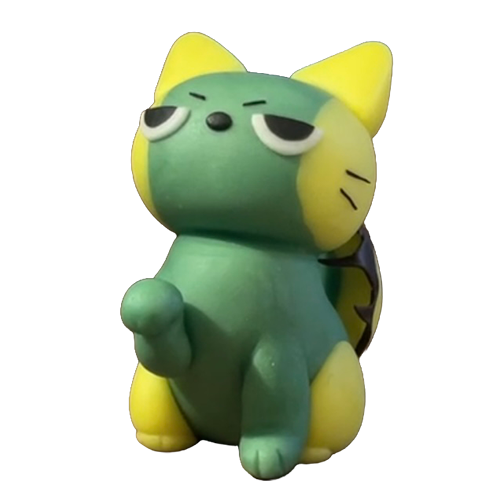
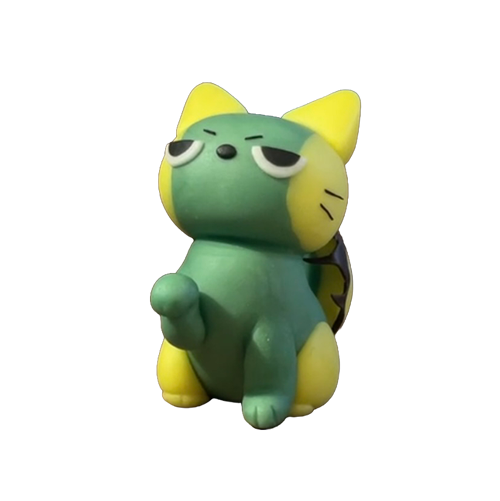
１１まで追加

Changed region(s): [[0.24, 0.0601, 0.81, 0.9619]]

diff --git a/index.html b/index.html
@@ -14,7 +14,7 @@
   <body>
     <header>
       <div class="header-left">
-        <span class="sys-badge">SYS_V1.0</span>
+        <span class="sys-badge">SYS_V1.1</span>
         <span class="logo">鋸歯生物図鑑</span>
       </div>
       <div class="header-right">
@@ -22,7 +22,7 @@
         <a href="#world" class="nav-a">WORLD</a>
         <a href="#maker" class="nav-a">MAKER</a>
         <span class="entry-count"
-          >ENTRIES: <span style="color: var(--ink)">008</span></span
+          >ENTRIES: <span style="color: var(--ink)">011</span></span
         >
       </div>
     </header>
@@ -36,7 +36,7 @@
         <div class="hero-stats">
           <div class="stat-c">
             <div class="stat-lbl">ENTRIES-個体</div>
-            <div class="stat-v">008<span class="stat-u">体</span></div>
+            <div class="stat-v">011<span class="stat-u">体</span></div>
           </div>
           <div class="stat-c">
             <div class="stat-lbl">HABITAT-生息</div>
@@ -491,11 +491,11 @@
             </div>
           </div>
         </div>
-        <!-- Card 8 -->
+        <!-- Card 8 白鯨-->
         <div class="ecard reveal">
           <div class="ct">
             <span class="cno">No.008</span>
-            <span class="rarity rar-uc">COMMON</span>
+            <span class="rarity rar-c">COMMON</span>
           </div>
 
           <div class="cillus">
@@ -535,6 +535,138 @@
               <div class="dc">
                 <div class="dk">STATUS</div>
                 <div class="dv" style="color: #e0b94f">● MYTHIC</div>
+              </div>
+            </div>
+          </div>
+        </div>
+        <!-- Card 9 -->
+        <div class="ecard reveal" style="transition-delay: 0.1s">
+          <div class="ct">
+            <span class="cno">No.009</span
+            ><span class="rarity rar-uc">UNCOMMON</span>
+          </div>
+          <div class="cillus">
+            <img src="images/no_009.png" alt="レッドにゃんこウィーズル" />
+          </div>
+          <div class="cbody">
+            <div class="ctag">BEAST-DOMINANT</div>
+            <div class="cnm-jp">レッドにゃんこウィーズル</div>
+            <div class="cnm-en">Red Nyanko Wizle</div>
+
+            <p class="cdesc">
+              鋸歯生態系に適応したネコ型生物。
+              全身は普段は淡い赤色を呈するが、強い環境ストレス（乾燥・捕食圧・光過多）に反応すると、体表の細胞が急激に発色し、鮮烈な赤色へと変化する。
+              鋸歯生物群落の近辺では、プレステラの突起構造に擬態した休眠姿勢を取ることが確認されている。
+              観察者の間では、「環境状態を視覚化する生物」として非常に高い研究価値を持つとされる。
+            </p>
+
+            <div class="cdata">
+              <div class="dc">
+                <div class="dk">HABITAT</div>
+                <div class="dv">スポットライト直下</div>
+              </div>
+
+              <div class="dc">
+                <div class="dk">SIZE</div>
+                <div class="dv">144mm</div>
+              </div>
+
+              <div class="dc">
+                <div class="dk">MOBILITY</div>
+                <div class="dv">夜間活性</div>
+              </div>
+
+              <div class="dc">
+                <div class="dk">STATUS</div>
+                <div class="dv" style="color: var(--g)">● ACTIVE</div>
+              </div>
+            </div>
+          </div>
+        </div>
+        <!-- Card 10 にゃがべチタノタ-->
+        <div class="ecard reveal" style="transition-delay: 0.1s">
+          <div class="ct">
+            <span class="cno">No.010</span
+            ><span class="rarity rar-c">COMMON</span>
+          </div>
+          <div class="cillus">
+            <img src="images/no_010.png" alt="にゃガベチタノタ" />
+          </div>
+          <div class="cbody">
+            <div class="ctag">BEAST-DOMINANT</div>
+            <div class="cnm-jp">にゃガベ チタノタ</div>
+            <div class="cnm-en">NyAgabe titanota</div>
+
+            <p class="cdesc">
+              鋸歯生物群の中でも、最も広域に分布する基本形態個体群。
+              本種は特定の環境に強く適応する“極地特化型”とは異なり、環境変化への耐性と再現性の高さに特化している。そのため、森林・乾燥地・人工環境のいずれにおいても安定して生存が確認されている。</br>
+              個体ごとの差異が小さいことから、群れ内では“基準個体（ベースライン）”として扱われることが多く、他の鋸歯生物の成長比較対象として頻繁に観測される。</br>
+              研究者の間では「進化の停滞ではなく、完成された汎用形態」とする説もあり、その評価は二分されている。
+            </p>
+
+            <div class="cdata">
+              <div class="dc">
+                <div class="dk">HABITAT</div>
+                <div class="dv">森林</div>
+              </div>
+
+              <div class="dc">
+                <div class="dk">SIZE</div>
+                <div class="dv">172mm</div>
+              </div>
+
+              <div class="dc">
+                <div class="dk">MOBILITY</div>
+                <div class="dv">夜間活性</div>
+              </div>
+
+              <div class="dc">
+                <div class="dk">STATUS</div>
+                <div class="dv" style="color: var(--g)">● ACTIVE</div>
+              </div>
+            </div>
+          </div>
+        </div>
+                <!-- Card 11 魔丸 -->
+        <div class="ecard reveal">
+          <div class="ct">
+            <span class="cno">No.011</span>
+            <span class="rarity rar-l">LEGEND</span>
+          </div>
+
+          <div class="cillus">
+            <img src="images/no_011.png" alt="魔丸" />
+          </div>
+
+          <div class="cbody">
+            <div class="ctag">BEAST-DOMINANT</div>
+
+            <div class="cnm-jp">キンタ魔丸</div>
+            <div class="cnm-en">GoldenBall Magan</div>
+
+            <p class="cdesc">
+              めちゃくちゃキンタマがでかい悪魔。</BR>めちゃくちゃキンタマがデカい。
+            </p>
+
+            <div class="cdata">
+              <div class="dc">
+                <div class="dk">HABITAT</div>
+                <div class="dv">禁域森林</div>
+              </div>
+
+              <div class="dc">
+                <div class="dk">SIZE</div>
+                <div class="dv">4.1m</div>
+              </div>
+
+              <div class="dc">
+                <div class="dk">MOBILITY</div>
+                <div class="dv">群体統率</div>
+              </div>
+
+              <div class="dc">
+                <div class="dk">STATUS</div>
+                <div class="dv" style="color: #e0b94f">● MONARCH</div>
               </div>
             </div>
           </div>

diff --git a/css/style.css b/css/style.css
@@ -734,6 +734,8 @@ header {
   gap: 1px;
   margin-top: 56px;
   background: rgba(255, 255, 255, 0.055);
+
+  flex-wrap: wrap;
 }
 .log-dc {
   flex: 1;